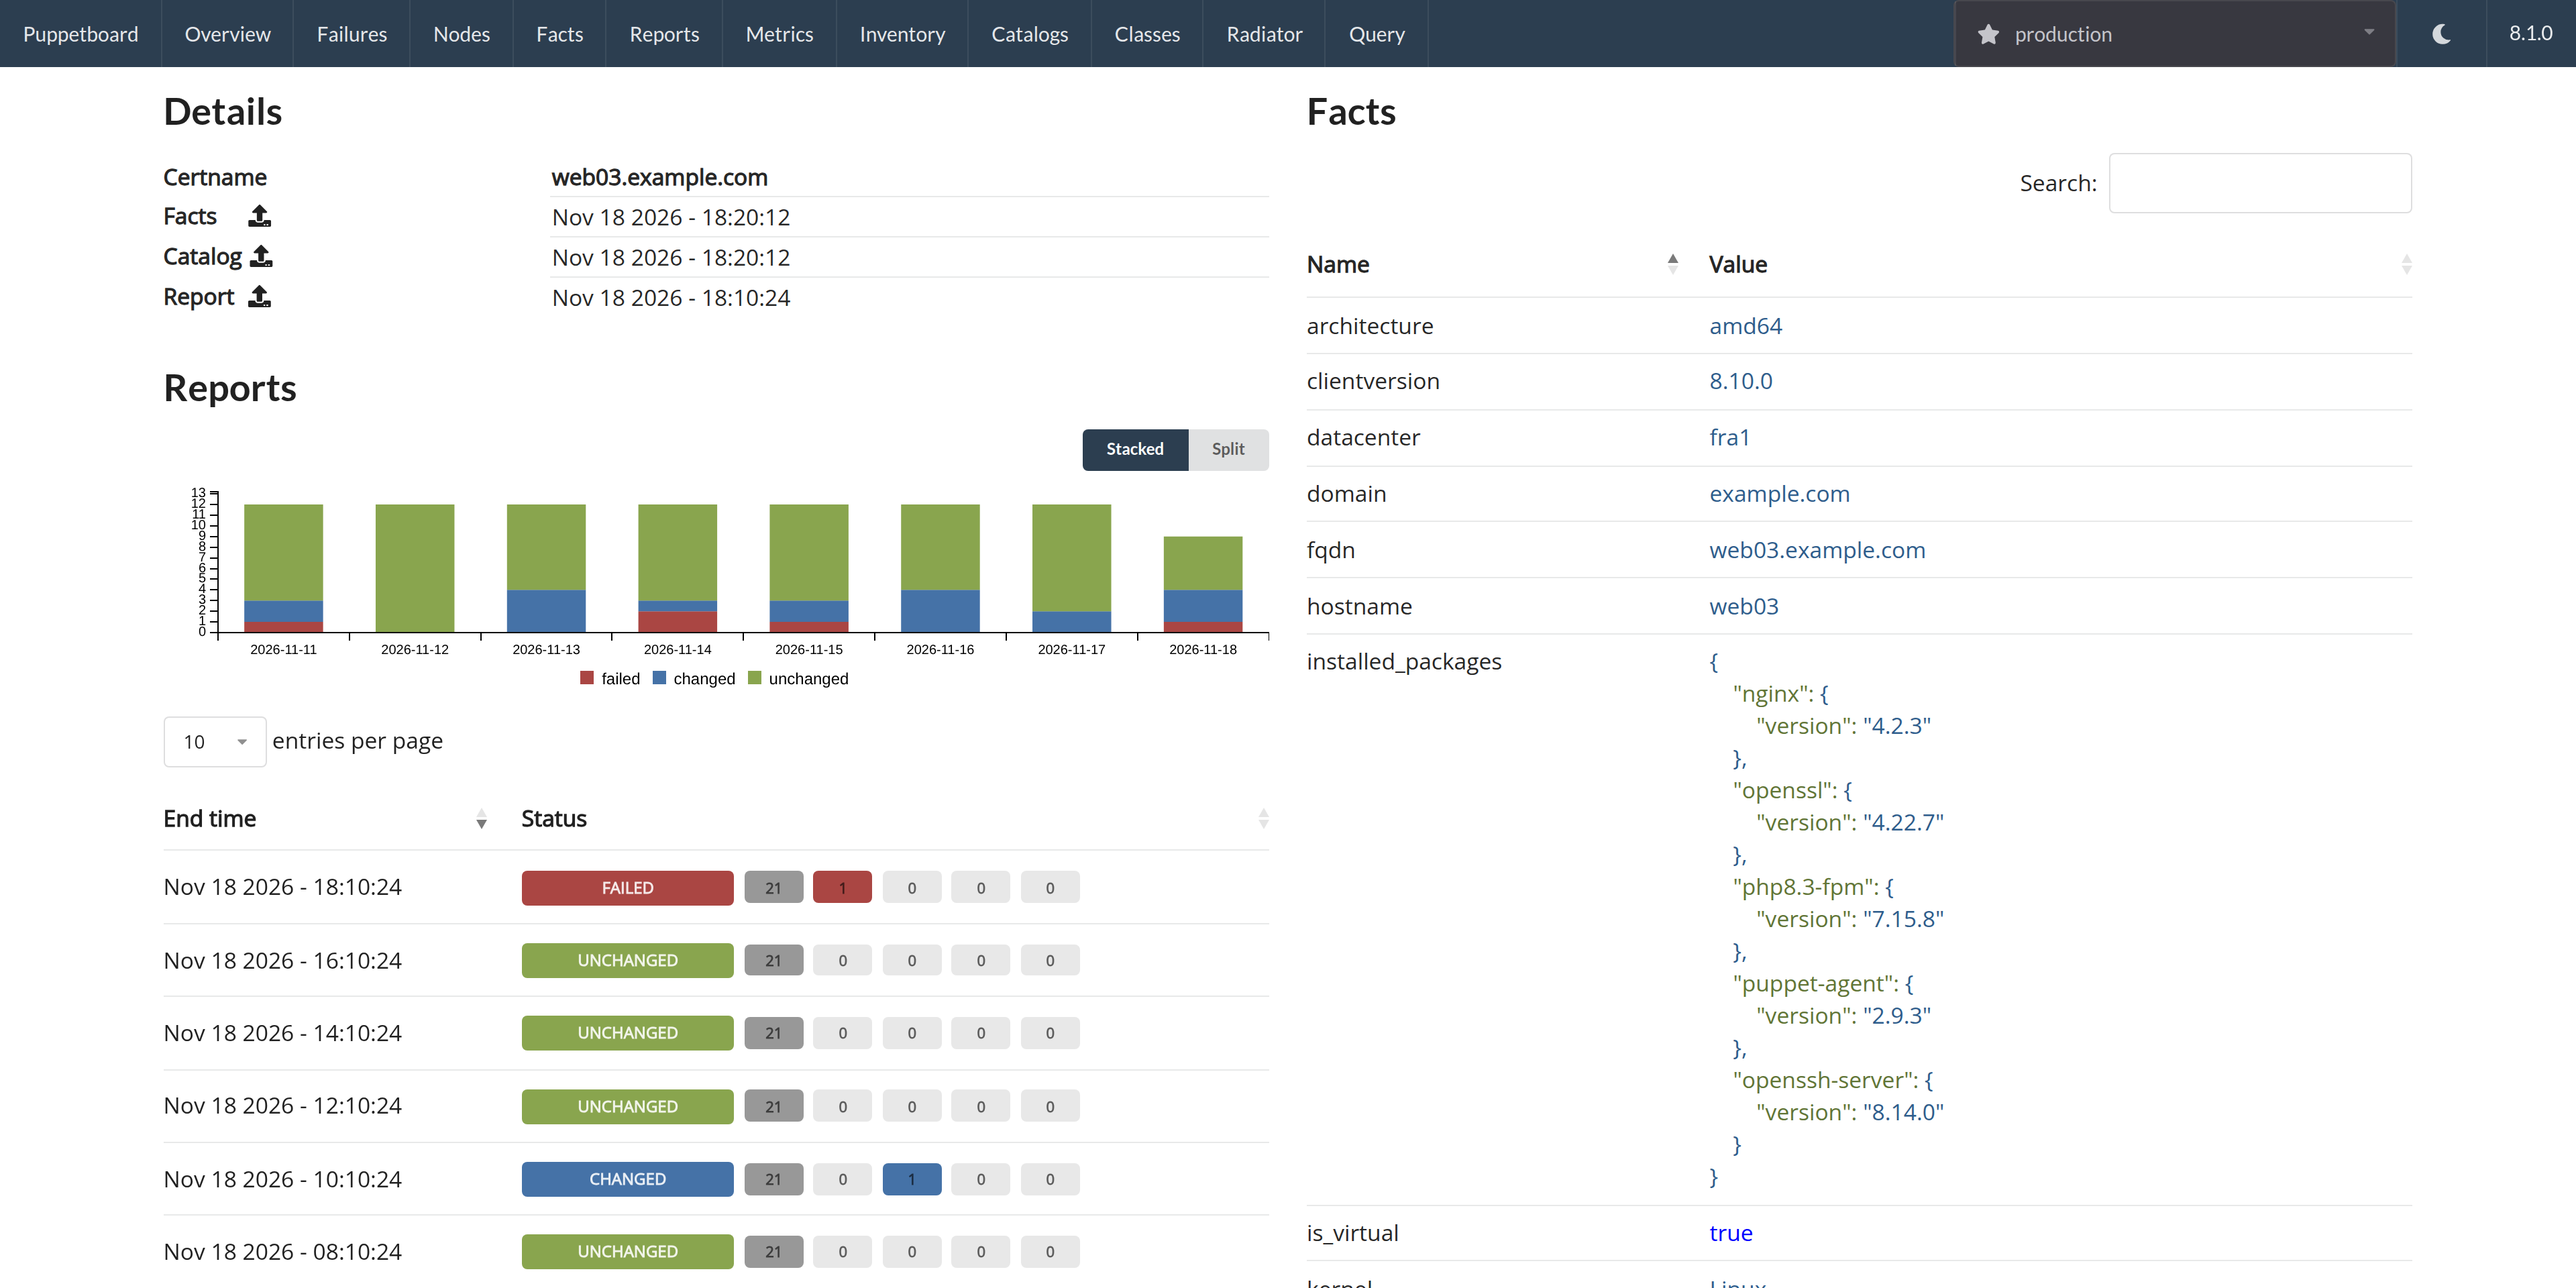
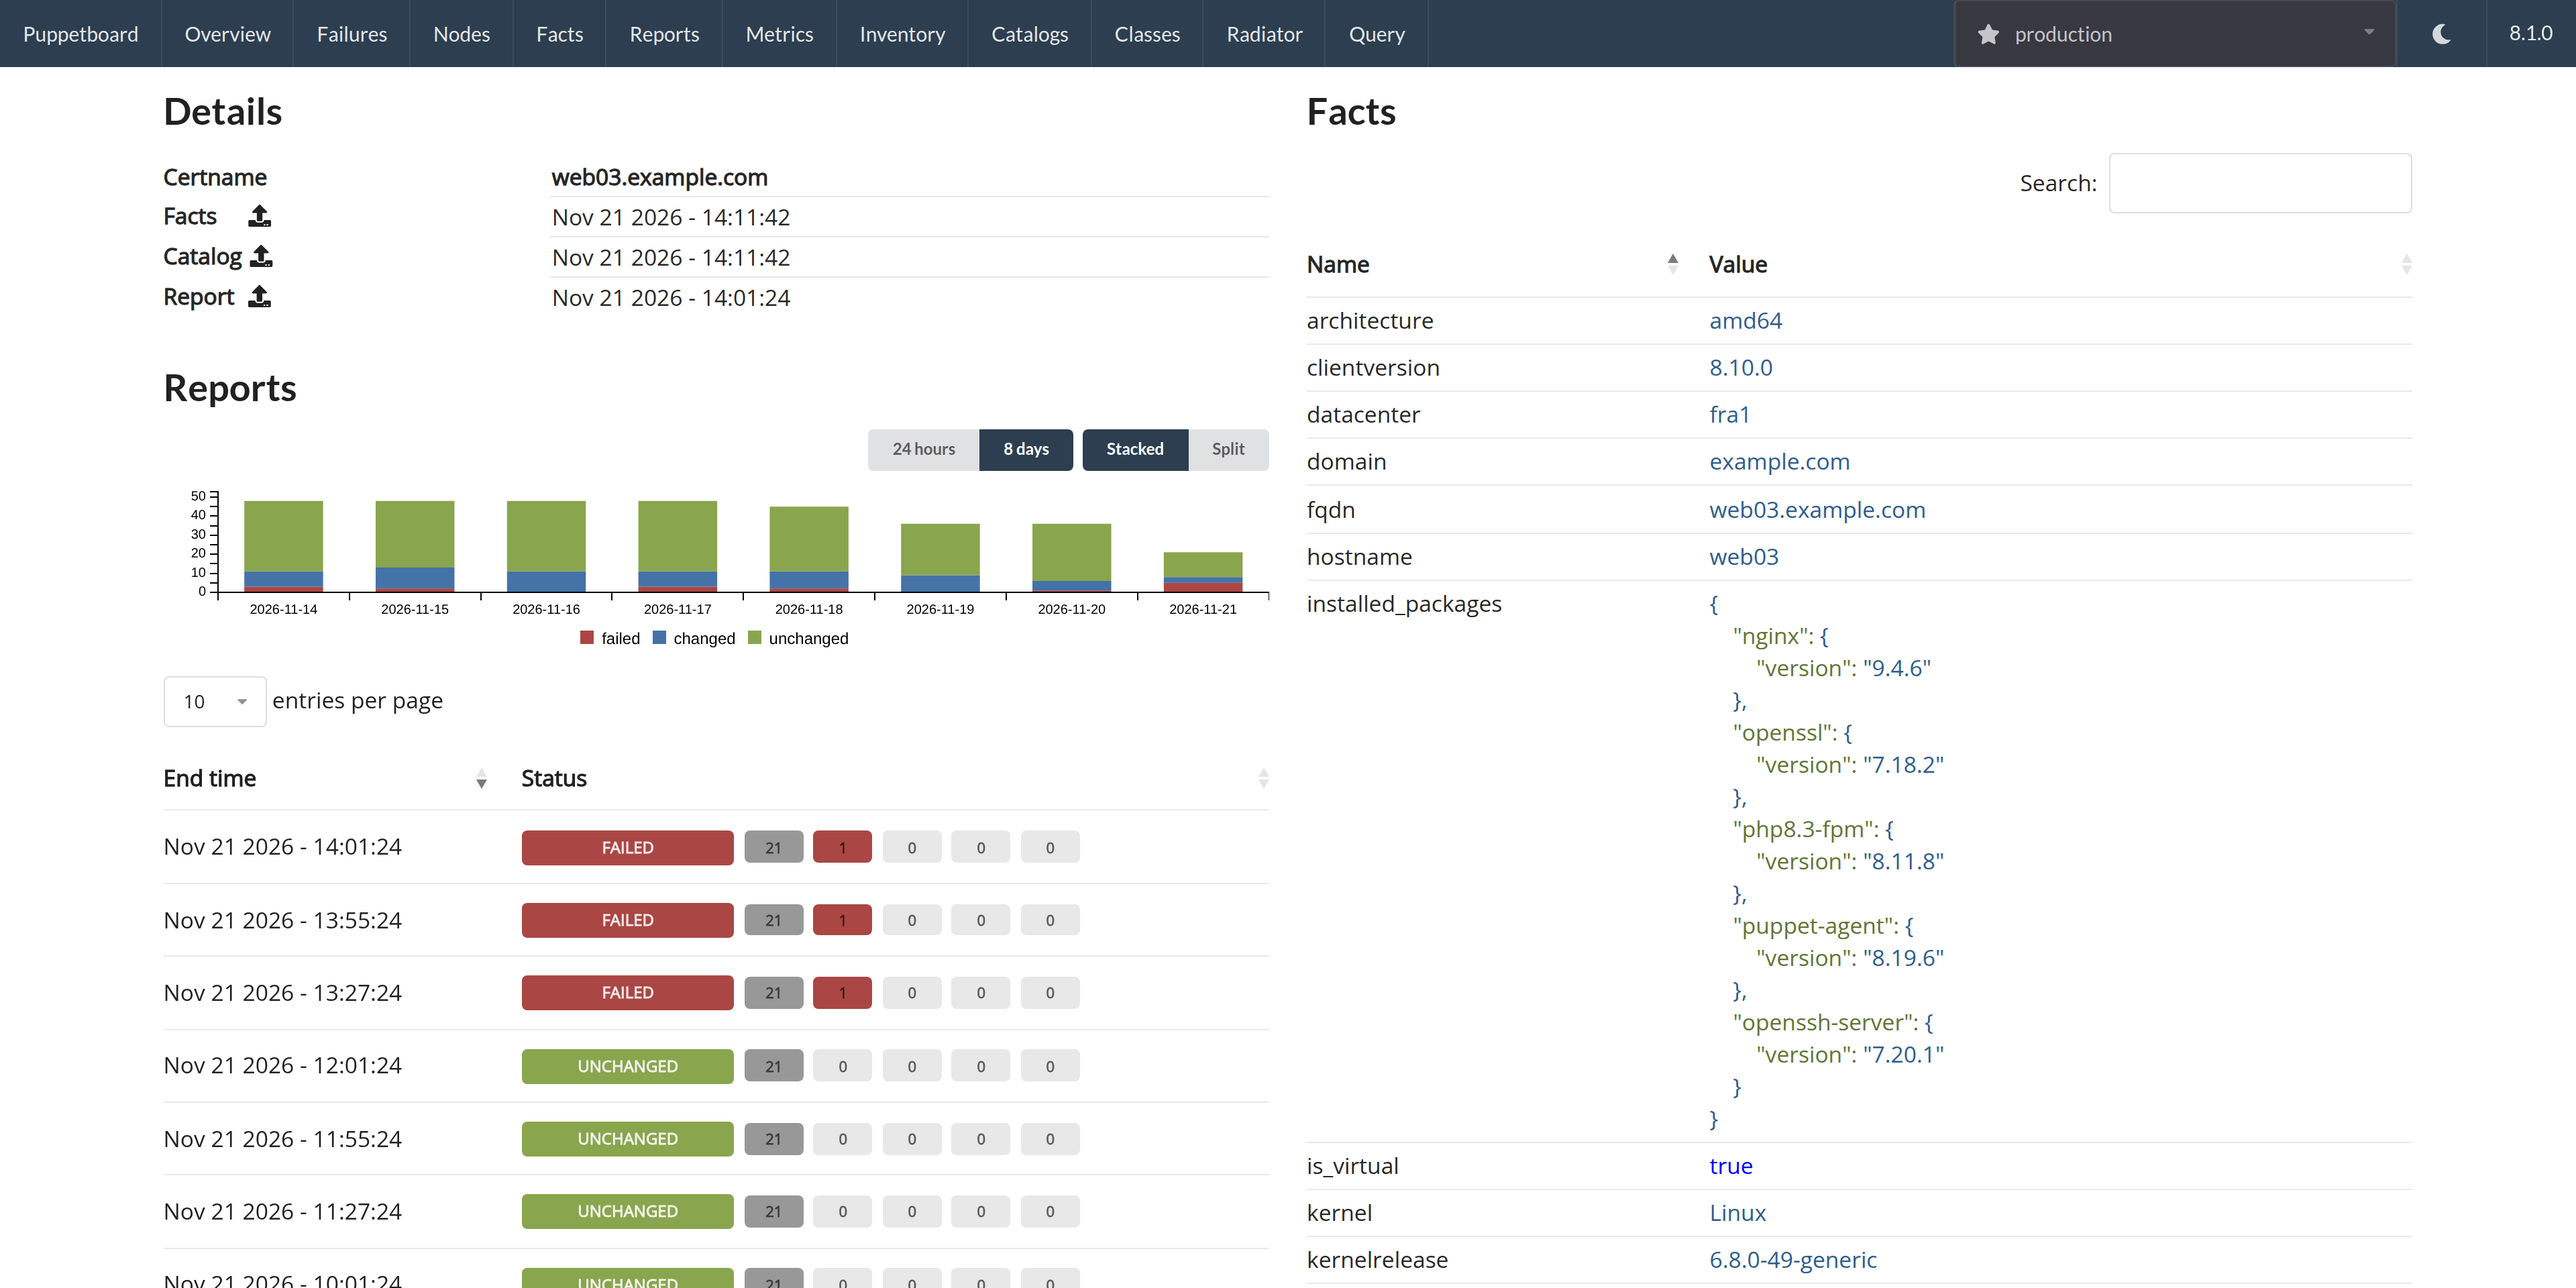
Show the run time charts in the README and its screenshots

diff --git a/README.md b/README.md
@@ -38,6 +38,8 @@ Compose examples.
   and nginx or Apache in front are in [docs/Deployment-setups.md](docs/Deployment-setups.md).
 - **Security fixes:** stored and reflected XSS through node data and URL parameters closed on every page;
   forged audit log lines and spoofed client addresses for the rate limit prevented.
+- **Run times on the overview:** charts of the fastest, slowest and average catalog application and fact
+  generation time per day, and a switch for all overview charts between the last 24 hours and the last days.
 - **Faster with many nodes:** quicker facts overview, failures, inventory, nodes and daily chart; the
   environment list is cached for 60 seconds.
 - **Current libraries:** DataTables, Fomantic-UI, jQuery, billboard.js and the Python dependencies kept up
